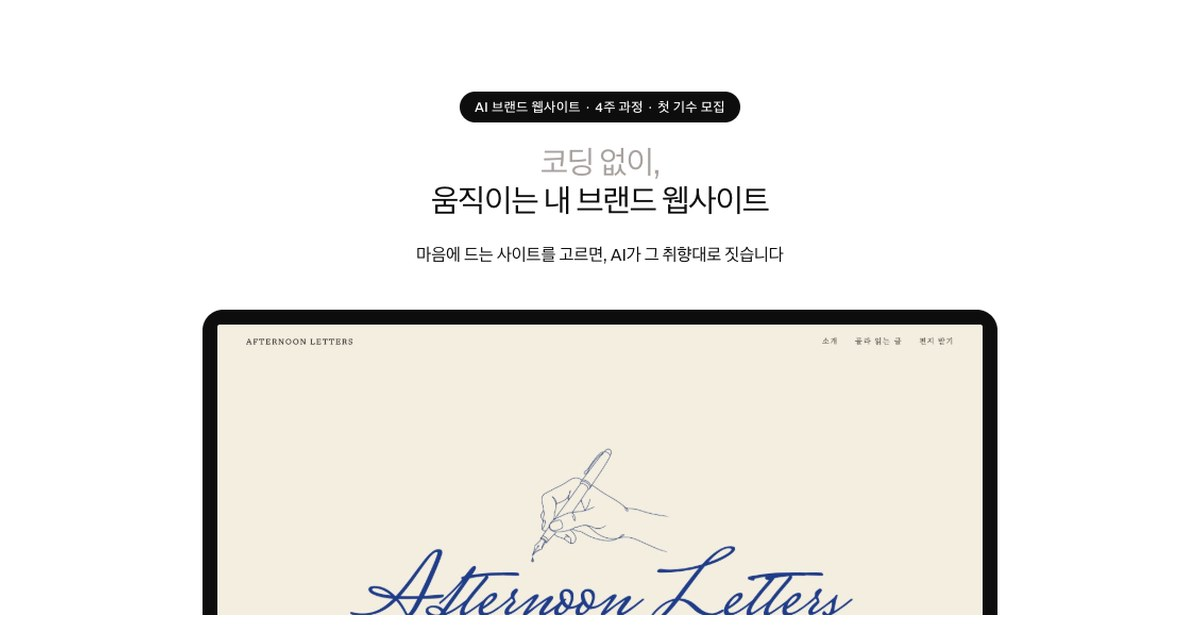
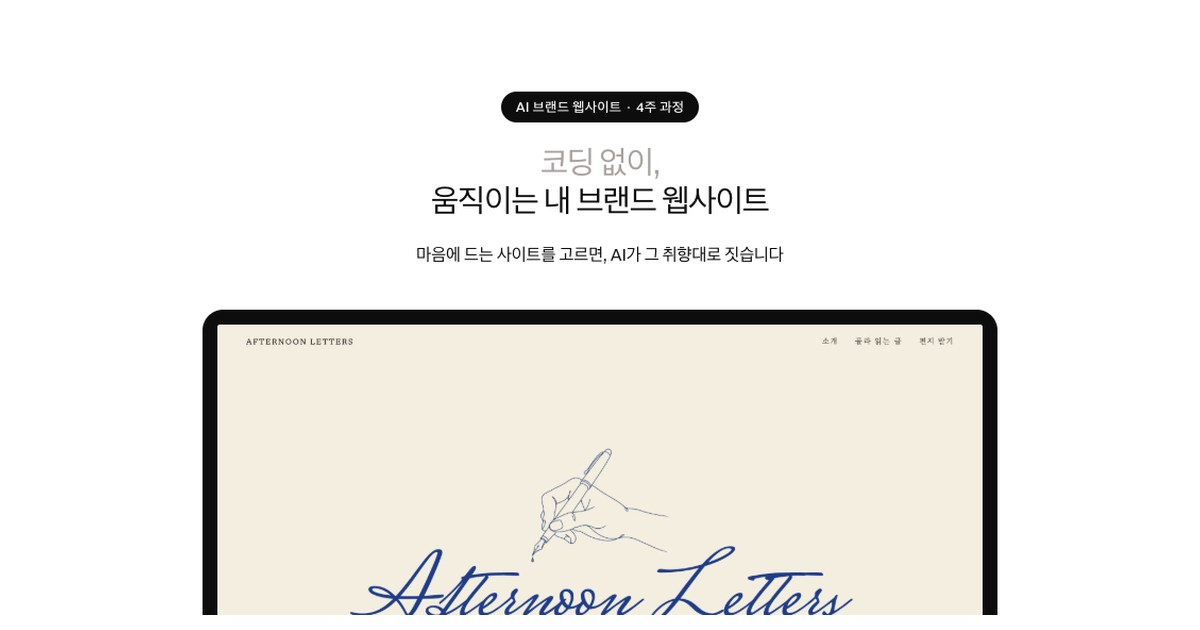
첫 기수 모집 문구 빼기(머리표 · 미리보기 카드)

Changed region(s): [[0.37, 0.1206, 0.6167, 0.2111]]

diff --git a/index.html b/index.html
@@ -7,7 +7,7 @@
 <title>AI 브랜드 웹사이트 4주 과정</title>
 <meta name="description" content="코딩 없이, 움직이는 내 브랜드 웹사이트 — 고르면 AI가 그 취향대로 짓습니다. 11월 10일 개강 · Zoom 실시간 4회 · 선착순 5명.">
 <meta property="og:type" content="website">
-<meta property="og:title" content="AI 브랜드 웹사이트 4주 과정 · 첫 기수 모집">
+<meta property="og:title" content="AI 브랜드 웹사이트 4주 과정">
 <meta property="og:description" content="코딩 없이, 움직이는 내 브랜드 웹사이트. 11월 10일 개강 · Zoom 실시간 4회 · 선착순 5명.">
 <meta property="og:url" content="https://seulalilalong.github.io/ai-brand-website-4weeks/">
 <meta property="og:image" content="https://seulalilalong.github.io/ai-brand-website-4weeks/media/og.jpg">
@@ -787,7 +787,7 @@ html.mo .memo.in::before{opacity:.9;scale:1 1;transition:opacity .2s ease calc(v
 <body>
 
 <section class="sec bg-white" id="hero">
-  <span class="tag">AI 브랜드 웹사이트 · 4주 과정 · 첫 기수 모집</span>
+  <span class="tag">AI 브랜드 웹사이트 · 4주 과정</span>
   <h1 class="h1"><span class="lt">코딩 없이,</span><span class="bd">움직이는 내 브랜드 웹사이트</span></h1>
   <p class="lead">마음에 드는 사이트를 고르면,<br class="m-br"> AI가 그 취향대로 짓습니다</p>
   <div class="laptop" data-move="hero" aria-label="예시 사이트 화면이 스크롤에 따라 바뀌는 모습">
